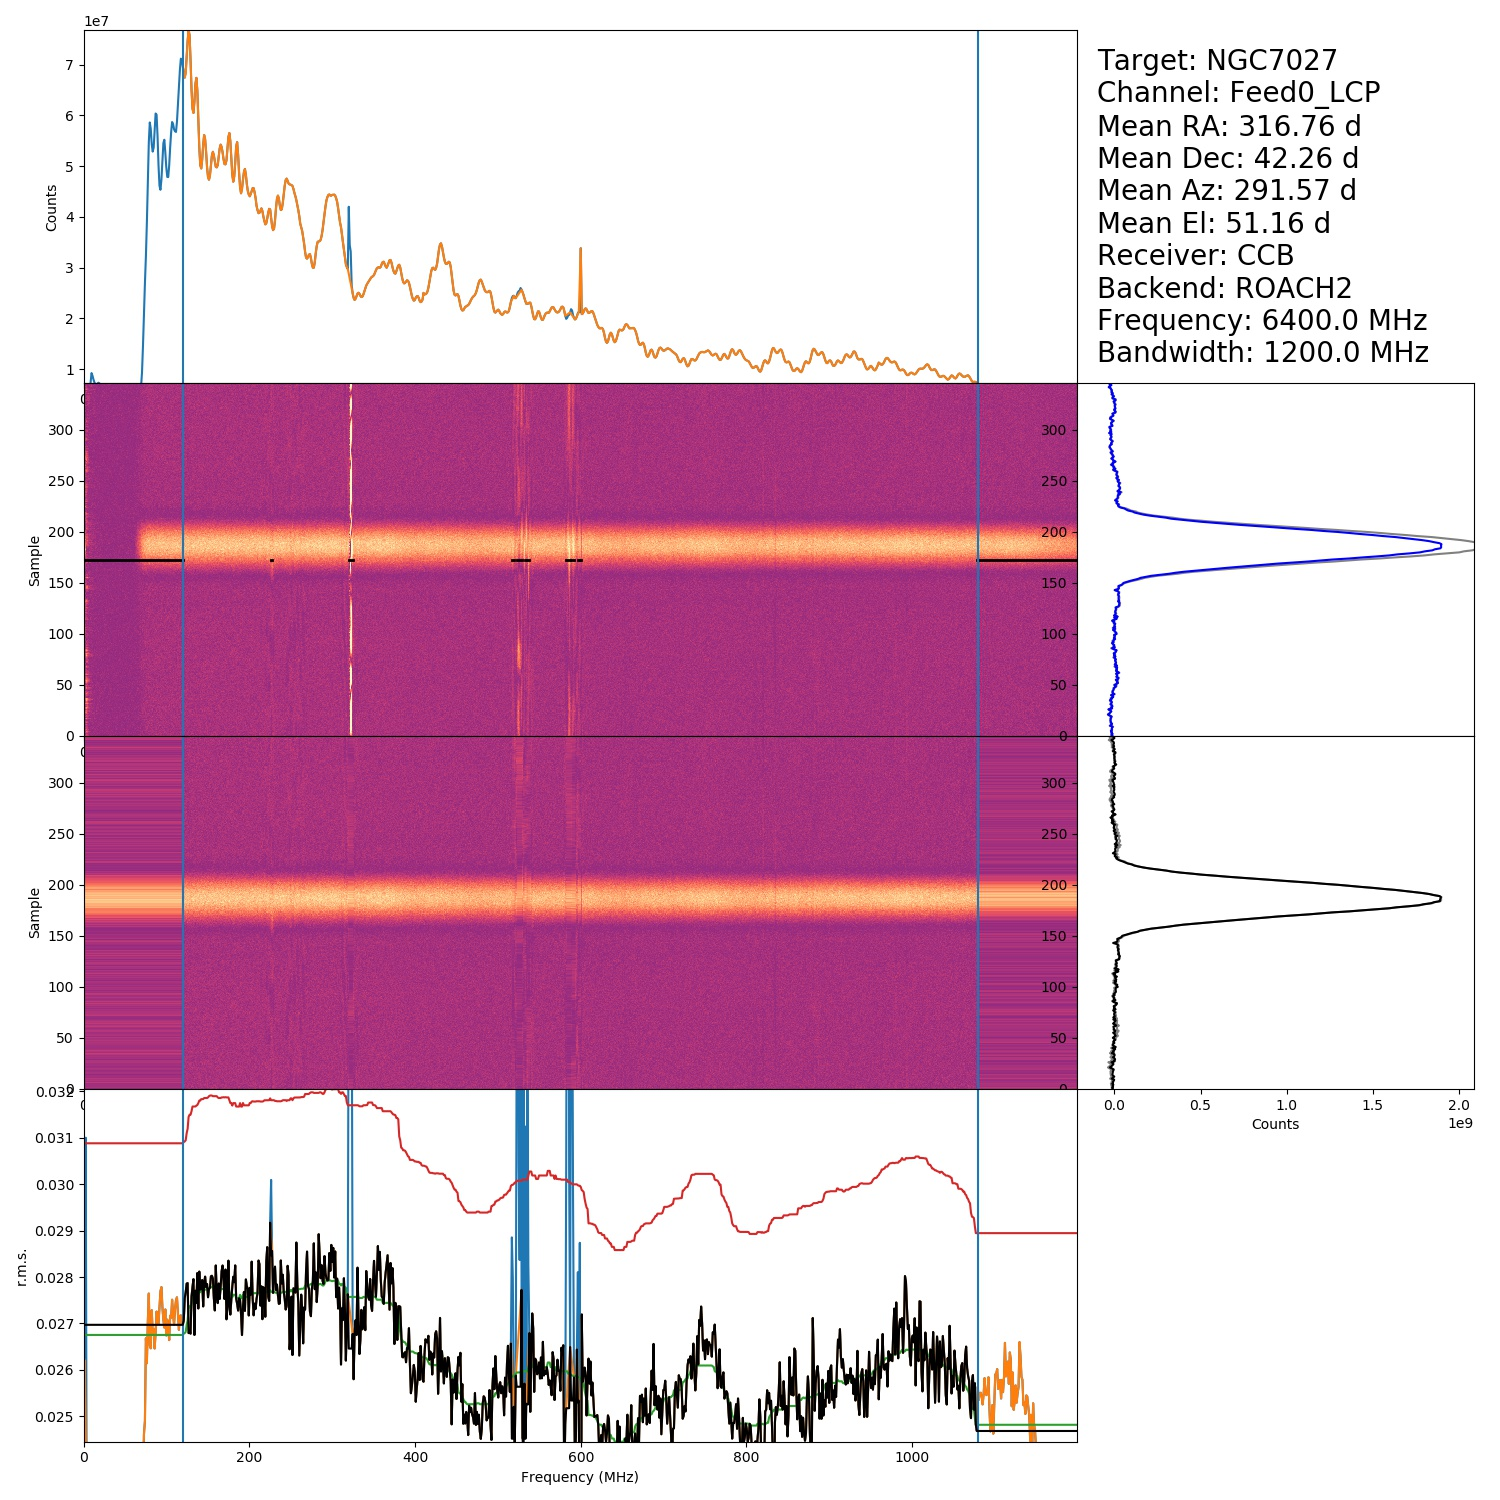
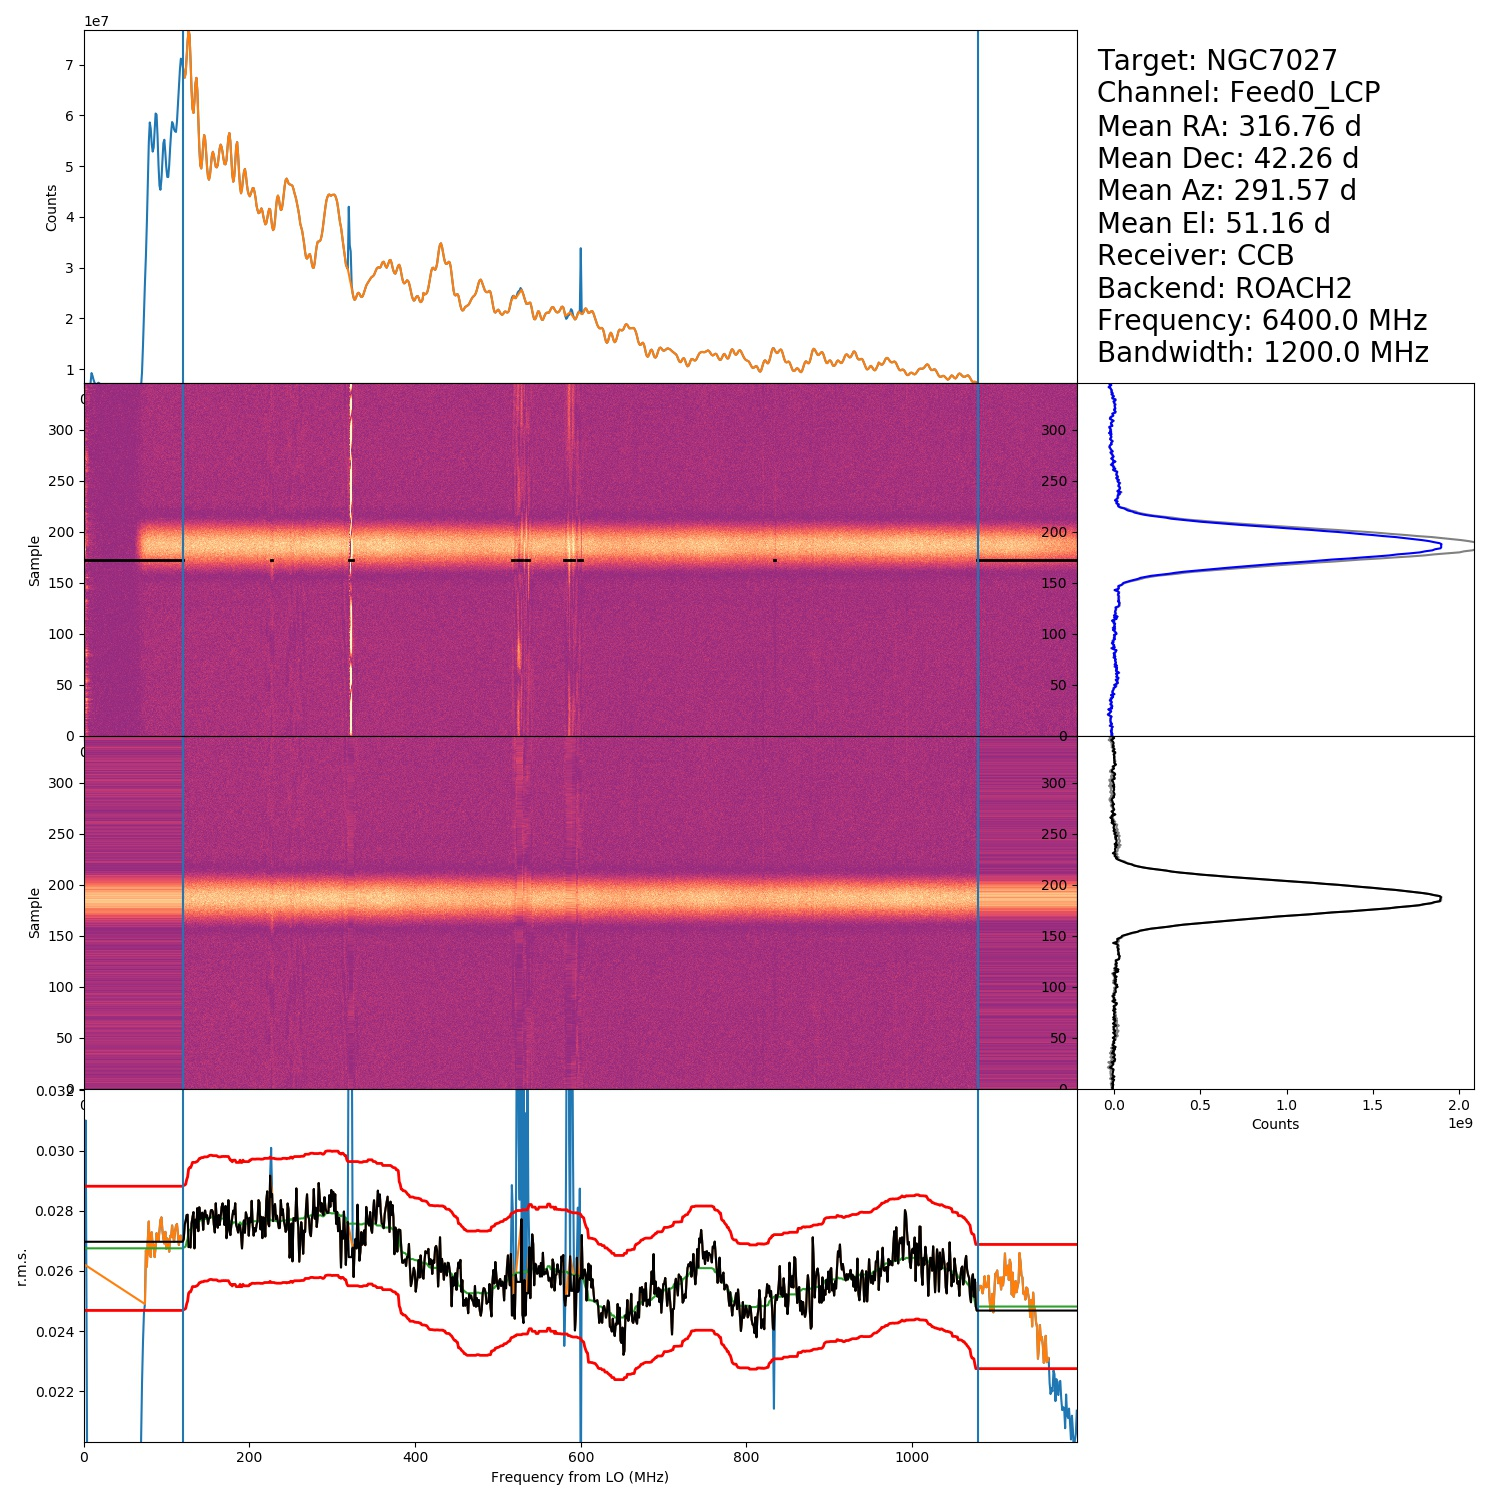
Slight change to thresholds

Changed region(s): [[0.0307, 0.736, 0.736, 1.0], [0.368, 0.184, 0.3987, 0.2147]]

diff --git a/srttools/scan.py b/srttools/scan.py
@@ -332,6 +332,8 @@ def clean_scan_using_variability(dynamical_spectrum, length, bandwidth,
     else:
         threshold = baseline + noise_threshold * stdref
         mask = spectral_var < threshold
+        threshold = baseline - noise_threshold * stdref
+        mask = mask & (spectral_var > threshold)
 
         wholemask = freqmask & mask
 
@@ -393,7 +395,7 @@ def clean_scan_using_variability(dynamical_spectrum, length, bandwidth,
     ax_dynspec.set_ylabel('Sample')
     ax_cleanspec.set_ylabel('Sample')
     ax_var.set_ylabel('r.m.s.')
-    ax_var.set_xlabel('Frequency (MHz)')
+    ax_var.set_xlabel('Frequency from LO (MHz)')
     ax_cleanlc.set_xlabel('Counts')
 
     # Plot mean spectrum
@@ -430,9 +432,11 @@ def clean_scan_using_variability(dynamical_spectrum, length, bandwidth,
     ax_var.plot(allbins, cleaned_spectral_var,
                 zorder=10, color="k")
     ax_var.plot(allbins[1:], baseline[1:])
-    ax_var.plot(allbins[1:], baseline[1:] + 2 * noise_threshold * stdref)
-    minb = np.min(baseline[1:])
-    ax_var.set_ylim([minb, np.max(baseline[1:]) + 10 * stdref])
+    ax_var.plot(allbins[1:], baseline[1:] + noise_threshold * stdref, color='r', lw=2)
+    ax_var.plot(allbins[1:], baseline[1:] - noise_threshold * stdref, color='r', lw=2)
+    minb = np.min(baseline[1:]) - 2 * noise_threshold * stdref
+    maxb = np.max(baseline[1:]) + 2 * noise_threshold * stdref
+    ax_var.set_ylim([minb, maxb])
 
     # Plot light curves
 

diff --git a/docs/index.rst b/docs/index.rst
@@ -289,16 +289,15 @@ Preprocess the files
    :align: center
 
    **Figure 2.** Output of the automatic filtering procedure for an OTF scan of a calibrator.
-   Channels with an rms that is a multiple of the mean standard deviation of the scan
-   (factor encoded in the ``noise_threshold`` key in the config file) are
-   automatically filtered out.
-   See bottom panel, where the cyan curved line is the running threshold to
-   select noisy channels, and black lines in the middle-top and top panels.
+   Channels where the root mean square of the signal is too high or too low are
+   automatically filtered out. The threshold is encoded in the ``noise_threshold``
+   variable in the config file. This is the number of standard deviations from the median
+   r.m.s. in a given interval.
    Optionally the user can choose the frequency interval (blue vertical lines).
    In the two right panels, one can see the scan before and after the cleaning.
    In the right-lower panel, the uncleaned scan is reported in grey to help
    the eye.
-   The rms of the dynamical spectrum before and after the cleaning is
+   The dynamical spectrum before and after the cleaning is
    shown in the two middle panels, and the effect of the cleaning on the scan
    is shown in the two right panels
 
